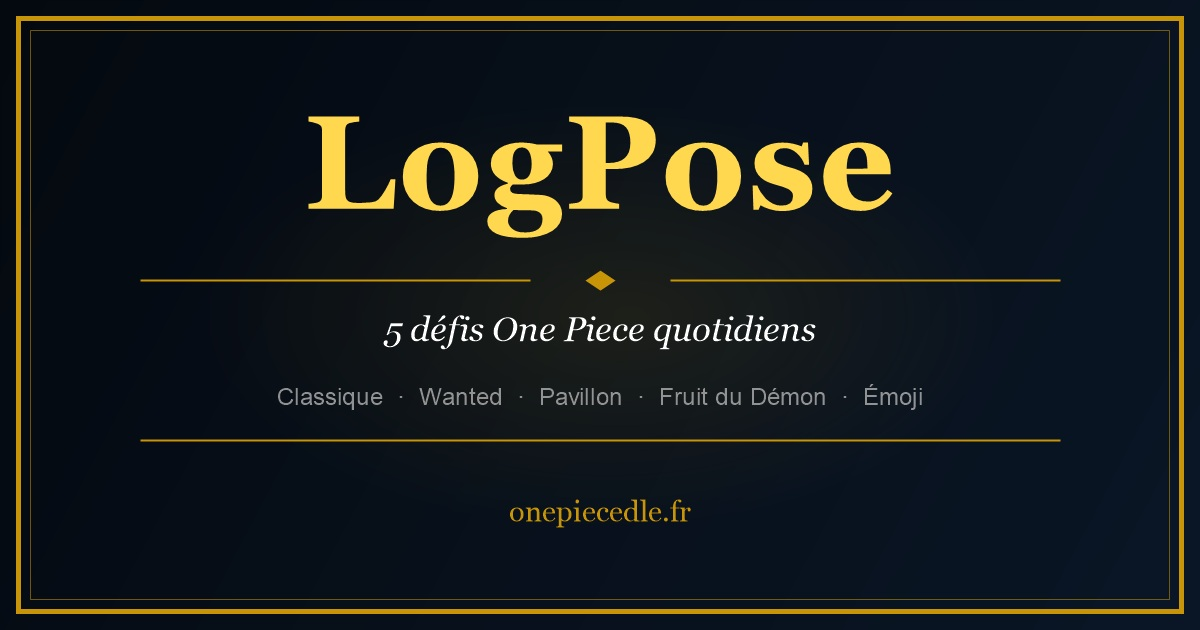
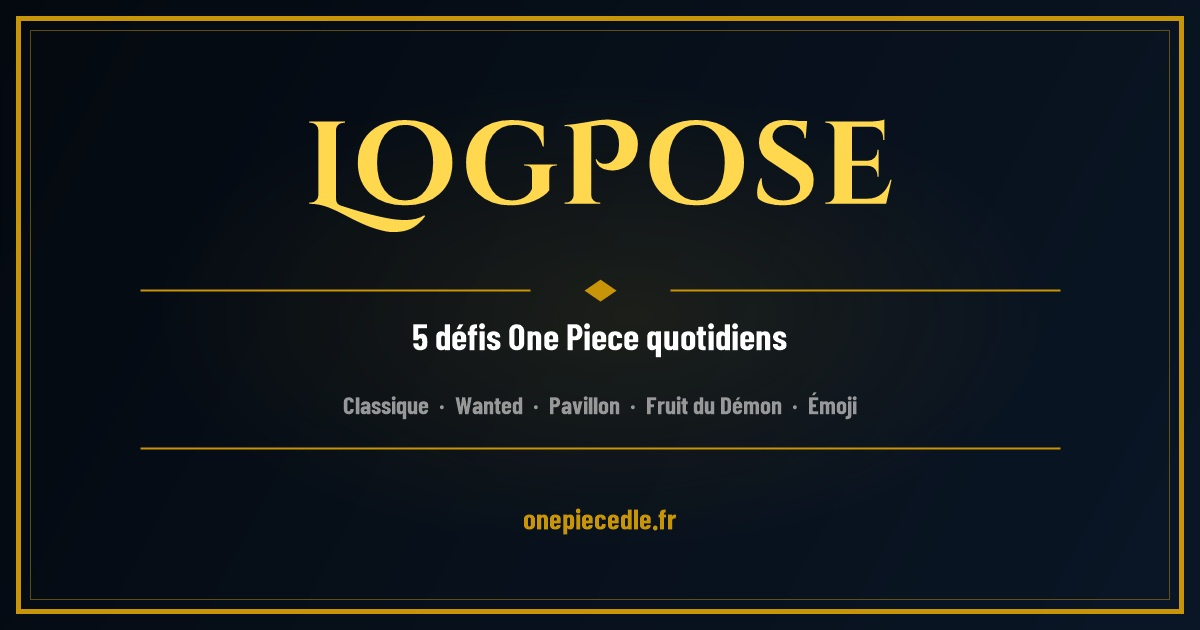
Fix hier fallback seed + og:image polices site + v59
- Barre hier : localStorage prioritaire, seed en fallback pour 1ère visite
- og:image : Cinzel Decorative + Barlow Condensed (polices réelles du site)

diff --git a/js/app.js b/js/app.js
@@ -152,14 +152,21 @@ function saveTodayTargets() {
 }
 saveTodayTargets();
 
-// Affiche la barre "hier" depuis localStorage (précis) ou la masque si absent
+// Affiche la barre "hier" — localStorage en priorité, seed en fallback
 function buildYesterdayBar() {
   const d = new Date(); d.setDate(d.getDate() - 1);
   const yKey = `${d.getFullYear()}-${d.getMonth()+1}-${d.getDate()}`;
   const stored = JSON.parse(lsGet('op-daily-' + yKey) || 'null');
   const el = document.getElementById('yesterday-bar');
-  if (!stored) { el.style.display = 'none'; return; }
-  el.innerHTML = `Hier — Classique : <strong>${esc(stored.classic)}</strong> &nbsp;|&nbsp; Wanted : <strong>${esc(stored.wanted)}</strong> &nbsp;|&nbsp; Pavillon : <strong>${esc(stored.flag)}</strong> &nbsp;|&nbsp; Émoji : <strong>${esc(stored.emoji)}</strong>`;
+
+  const data = stored || {
+    classic: CHARACTERS[seedForDate(d,  1)   % CHARACTERS.length].name,
+    wanted:  WANTED_CHARS[seedForDate(d, 31)  % WANTED_CHARS.length].name,
+    flag:    FLAGS[seedForDate(d,       97)   % FLAGS.length].name,
+    emoji:   EMOJI_POOL[seedForDate(d,  137)  % EMOJI_POOL.length].name,
+  };
+
+  el.innerHTML = `Hier — Classique : <strong>${esc(data.classic)}</strong> &nbsp;|&nbsp; Wanted : <strong>${esc(data.wanted)}</strong> &nbsp;|&nbsp; Pavillon : <strong>${esc(data.flag)}</strong> &nbsp;|&nbsp; Émoji : <strong>${esc(data.emoji)}</strong>`;
 }
 buildYesterdayBar();
 

diff --git a/index.html b/index.html
@@ -412,6 +412,6 @@
 
 <!-- Données chargées en premier, puis la logique du jeu -->
 <script src="js/data.js?v=40"></script>
-<script src="js/app.js?v=58"></script>
+<script src="js/app.js?v=59"></script>
 </body>
 </html>